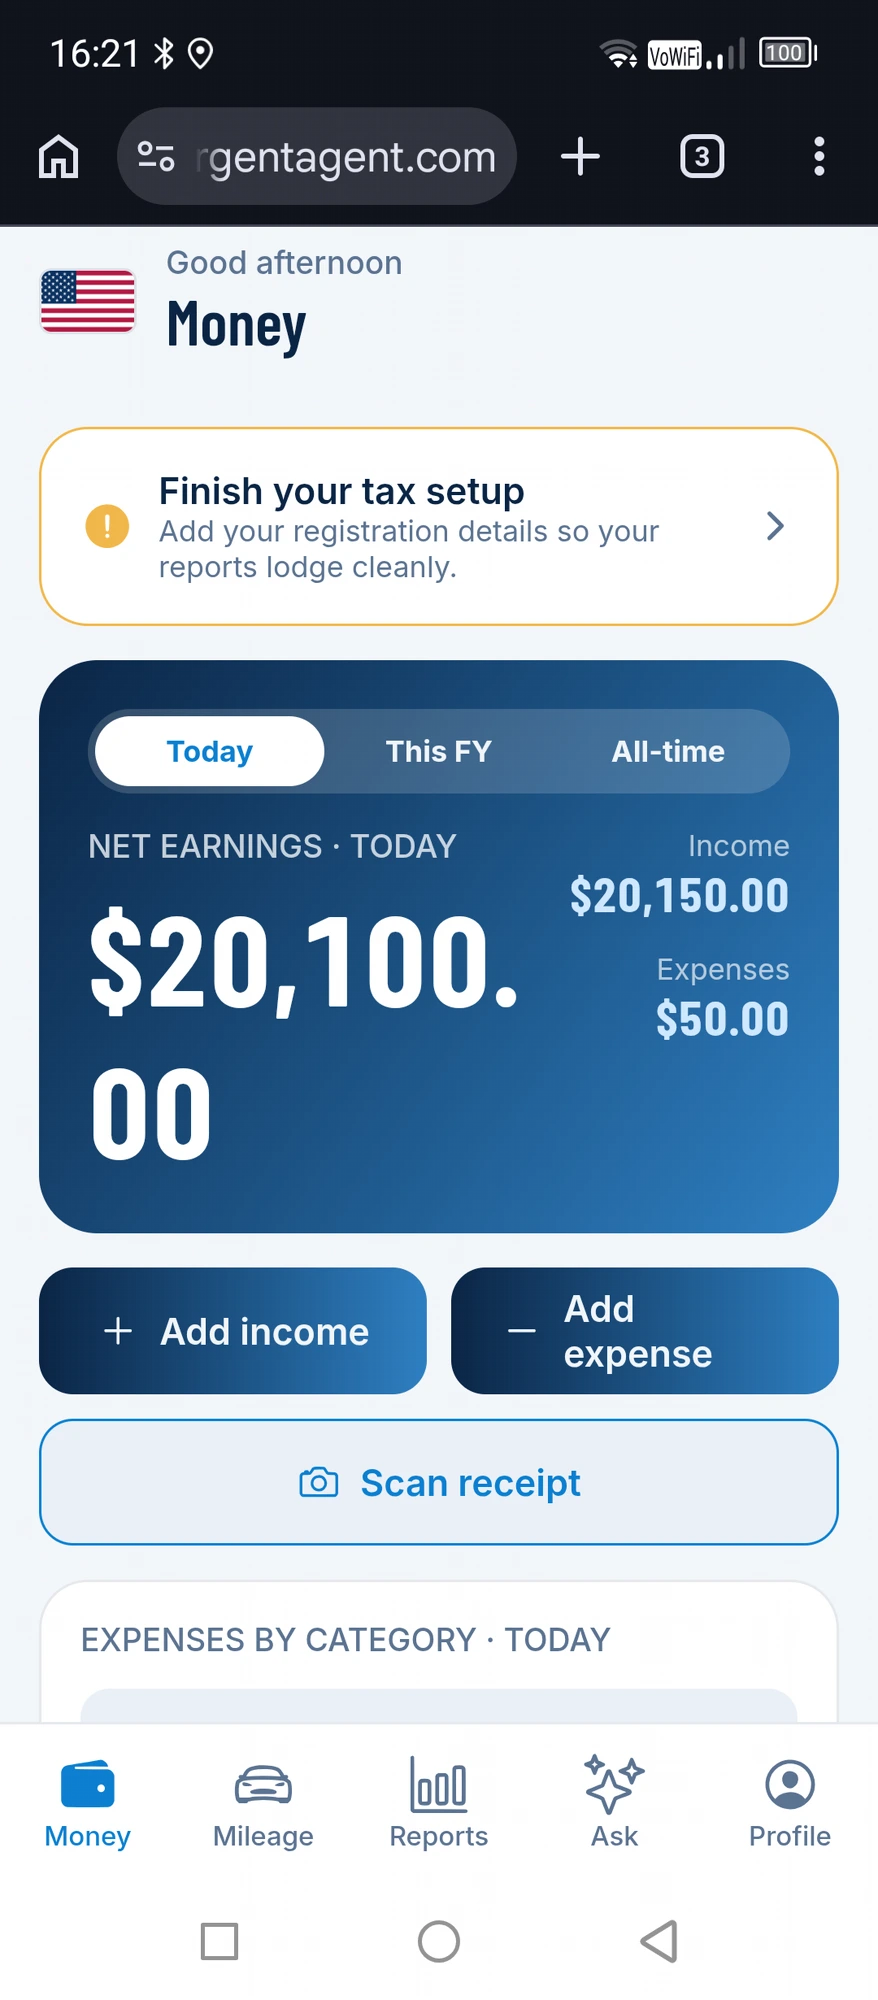
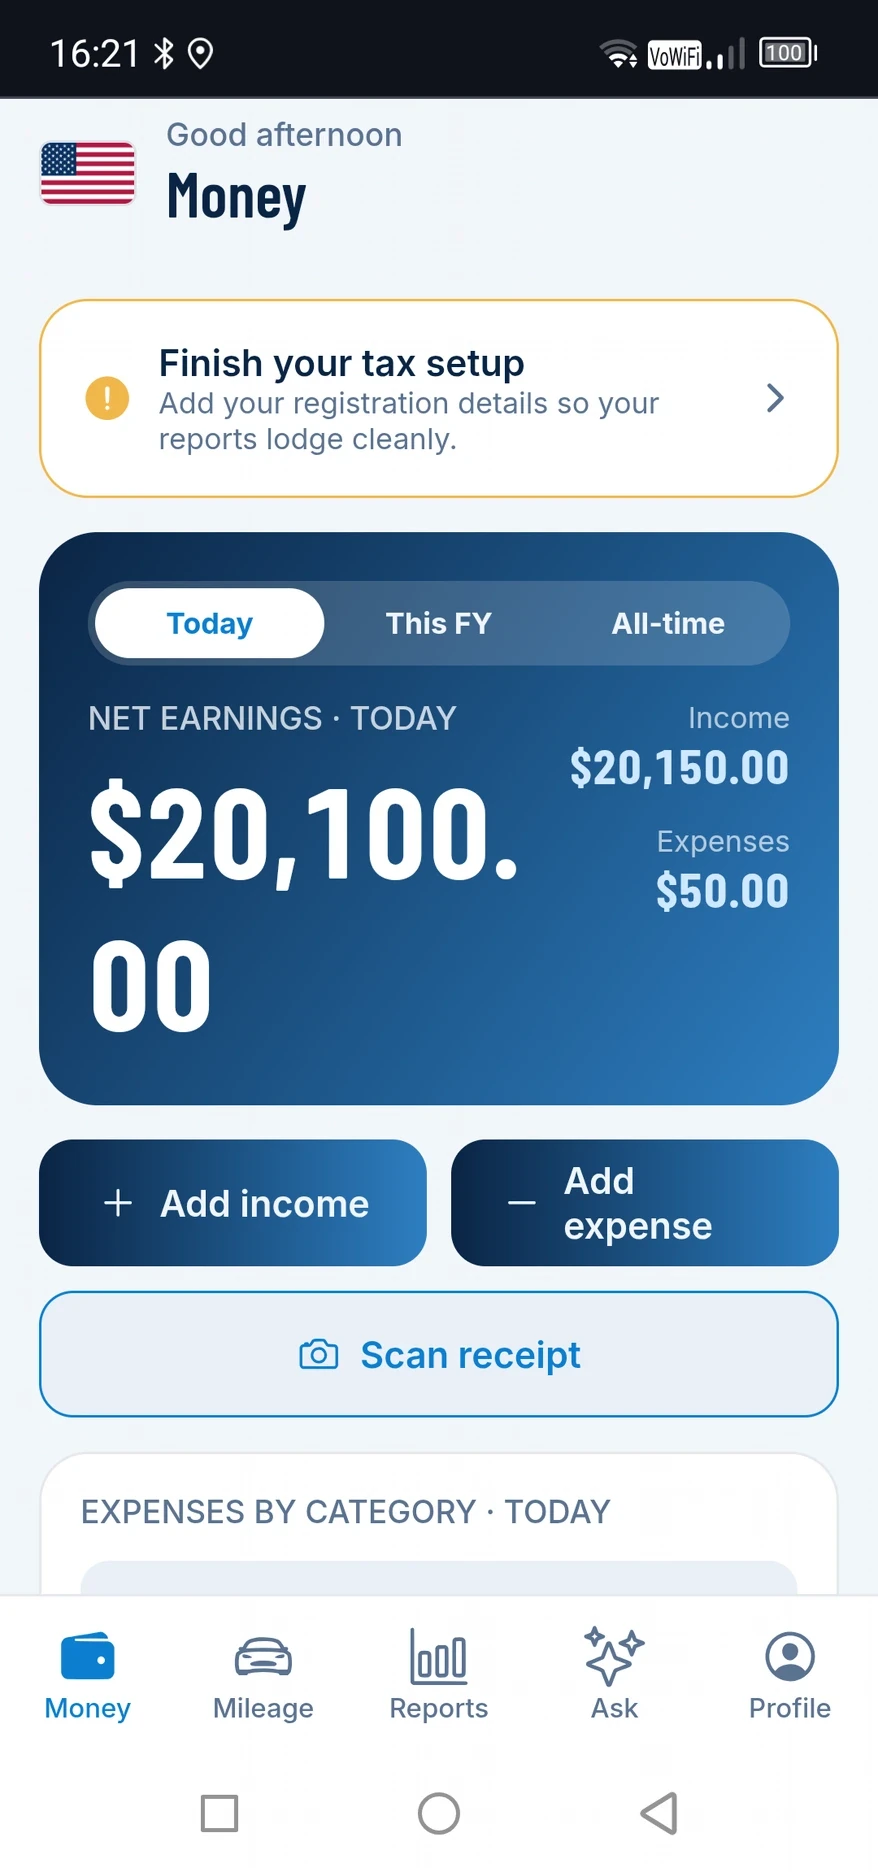
Remove Emergent branding from the repo and marketing screenshots.
Drop the unused Emergent promo image, crop the preview host out of the website phone shots, and clear the brand name from docs, comments, and old test notes. Product name, package id, slug, and bundle id are unchanged.

diff --git a/frontend/constants/testIds/auth.js b/frontend/constants/testIds/auth.js
@@ -13,8 +13,7 @@
 //     (or `<feature>-<element>-<qualifier>` when an element repeats). Examples:
 //     'login-submit-button', 'cart-quantity-input', 'product-card-image'.
 //
-// Why kebab-case values: required by qabot's CSS-attribute-style selector
-// matcher and the lint rule `emergent(kebab-case-testid-prop)`.
+// Why kebab-case values: test selectors match these strings as attribute values.
 
 export const LOGIN = {
 	emailInput: 'login-email-input',

diff --git a/frontend/constants/testIds/index.js b/frontend/constants/testIds/index.js
@@ -1,5 +1,5 @@
 // constants/testIds/ — central registry of testID values used by the
-// end-to-end testing agent (qabot) to locate and interact with UI elements
+// end-to-end tests to locate and interact with UI elements
 // during automated tests. UI without testIDs cannot be automatically verified.
 //
 // Structure: each feature lives in its own file (auth.js, cart.js, ...) and

diff --git a/scripts/migrate_mongo_to_supabase.py b/scripts/migrate_mongo_to_supabase.py
@@ -6,7 +6,7 @@ supabase/migrations/0001_init.sql, while the old backend is in read-only /
 maintenance mode:
 
     pip install -r scripts/requirements.txt
-    export MONGO_URL=... DB_NAME=...                # old Emergent Mongo
+    export MONGO_URL=... DB_NAME=...                # previous Mongo database
     export SUPABASE_URL=https://<ref>.supabase.co
     export SUPABASE_SERVICE_ROLE_KEY=...            # service role (bypasses RLS)
     python scripts/migrate_mongo_to_supabase.py --dry-run   # counts only

diff --git a/backend/tests/test_gigtax_api.py b/backend/tests/test_gigtax_api.py
@@ -320,7 +320,7 @@ class TestExport:
 
 
 # ---------------------------------------------------------------------------
-# Receipt scanning (OpenAI gpt-4o via Emergent LLM)
+# Receipt scanning (vision model)
 # ---------------------------------------------------------------------------
 def _real_receipt_png_b64() -> str:
     """Render a synthetic receipt PNG with real edges/text using Pillow."""

diff --git a/backend/tests/test_recent_features.py b/backend/tests/test_recent_features.py
@@ -4,7 +4,7 @@
 - Money overview with recurring rental (money_now.recurring_rent)
 - Fuel receipt litres persistence
 - Vehicles CRUD + active vehicle switching
-- Ask endpoint (Claude via Emergent LLM)
+- Ask endpoint (Claude)
 """
 import uuid
 from datetime import date, timedelta

diff --git a/memory/PRD.md b/memory/PRD.md
@@ -6,7 +6,7 @@ GigTax is a mobile tax & expense tracker for gig-economy drivers (rideshare + de
 ## Architecture
 - **Backend:** FastAPI + MongoDB. Authoritative AU tax logic lives server-side (`backend/tax.py`) so figures are independently testable. No auth in milestone 1 — a client-generated `profile_id` (local storage) scopes all data.
 - **Frontend:** Expo Router (file-based), 5 bottom tabs + modal routes. Theme (dark/light) with locked palette; Barlow Condensed (variable-free static) for display numerals, Inter (variable) for body; tabular-nums on all money.
-- **Integrations:** OpenAI gpt-4o vision via Emergent Universal LLM key for receipt scanning (`POST /api/receipts/scan`).
+- **Integrations:** OpenAI gpt-4o vision via a hosted LLM key for receipt scanning (`POST /api/receipts/scan`).
 
 ## User personas
 - Full-time rideshare driver (passengers → GST-registered from $1, needs BAS figures).
@@ -46,8 +46,8 @@ GigTax is a mobile tax & expense tracker for gig-economy drivers (rideshare + de
 - **Money hero redesign (DONE, June 2026):** Removed the This-FY/All-time period toggle — Money is now **Today only**. Net total is a full-width auto-shrinking figure on top (no overflow), with Income & Expenses stacked below a divider (Reports-style), plus the weekly-goal bar.
 - **Driving Insights screen (DONE, June 2026):** New `/api/insights` endpoint + `taxlib.insights()` returns an 8-week weekly recap (income, expenses, profit, online hours, $/hr) and a best-day-to-drive breakdown (income & $/hr per weekday over the last 12 weeks, with `best_earning_day` / `best_hourly_day`). New full-screen `app/insights.tsx` (reached from a "Driving insights" card on the Money tab): trophy headline ("Saturdays pay best"), weekly earnings bars with hours, and horizontal per-weekday bars (uses $/hr when hours are logged, else earnings). Tests: `test_insights.py` (74/74 pytest pass). Documented conceptually alongside Online hours.
 - **Online Hours logging (DONE, June 2026):** Drivers log manual online hours per shift so earnings-per-hour reflects real online time (incl. waiting), not just driving. Backend: new `shifts` collection + CRUD `GET/POST/PUT/DELETE /api/shifts` (`Shift` model: id, profile_id, date, hours, platform?, vehicle_id?, note?). `/api/performance` now prefers logged online hours over trip driving minutes when shifts exist in a week, and returns `hours_source: "online"|"driving"`. Frontend: `entry.tsx` gained a `shift` kind (Hours + Platform + Date + Note); Money tab has an **Online hours** card (period-aware total, `$/hr online`, per-shift list tap-to-edit/delete, "Log hours" button). Tests: `test_shifts.py` + new perf cases (72/72 pytest pass). Documented in User Guide.
-- **Google login re-enabled (DONE, June 2026):** The Emergent-managed Google sign-in gate was restored in `_layout.tsx` (LoginScreen shown when `user` is null). `auth.tsx` hardened for native (module-scope `maybeCompleteAuthSession`, one-shot session_id guard, cold-start `getInitialURL` + `url` listener). Backend `/auth/*` endpoints unchanged. NOTE: preview URL now requires sign-in (previously bypassed for frictionless sharing).
-- **AI Tax Assistant "Ask GigTax" (DONE):** New `Ask` tab — grounded Q&A chat for gig drivers. Backend `POST /api/ask` uses Claude Sonnet 4.6 (Emergent LLM key) with a system prompt locked to a **verified knowledge base** (`backend/tax_kb.py`, distilled from official ATO & IRS gig-driver deduction rules). No web search; answers ONLY from the KB, cites rule/year, refuses out-of-scope ("not in my verified sources — see a registered tax agent"), auto-tailors to country. Frontend `app/(tabs)/ask.tsx` chat UI with suggestions, disclaimer, light multi-turn. Verified live. Documented in User Guide.
+- **Google login re-enabled (DONE, June 2026):** The hosted Google sign-in gate was restored in `_layout.tsx` (LoginScreen shown when `user` is null). `auth.tsx` hardened for native (module-scope `maybeCompleteAuthSession`, one-shot session_id guard, cold-start `getInitialURL` + `url` listener). Backend `/auth/*` endpoints unchanged. NOTE: preview URL now requires sign-in (previously bypassed for frictionless sharing).
+- **AI Tax Assistant "Ask GigTax" (DONE):** New `Ask` tab — grounded Q&A chat for gig drivers. Backend `POST /api/ask` uses Claude Sonnet 4.6 (a hosted LLM key) with a system prompt locked to a **verified knowledge base** (`backend/tax_kb.py`, distilled from official ATO & IRS gig-driver deduction rules). No web search; answers ONLY from the KB, cites rule/year, refuses out-of-scope ("not in my verified sources — see a registered tax agent"), auto-tailors to country. Frontend `app/(tabs)/ask.tsx` chat UI with suggestions, disclaimer, light multi-turn. Verified live. Documented in User Guide.
 - **Tax setup country-aware (DONE):** AU shows GST registration + ABN/TFN; US hides GST fields, shows EIN/SSN + "Estimated tax frequency" (1040-ES note).
 - **Method comparison moved to Reports (DONE):** The "Which method is better?" vehicle-deduction comparison card was moved from the **Mileage** tab to the **Reports** tab (works for both AU logbook-vs-cents/km and US actual-vs-standard-mileage, FY-based via `api.taxMileage`). The old US-only "Car expense method" card in Reports was deleted (redundant). Reports now fetches report + tax-mileage in parallel.
 - **Tab de-duplication (DONE):** Removed duplicate modules so each lives in one place. **Home** no longer shows the "Set aside for taxes" jar or the "Tax Mileage" estimate card (both already in **Reports**). **Vehicle management moved entirely to Settings** — "Set up your vehicle" card and "Add car" link removed from Mileage (switcher chips + read-only odometer card remain). **Settings** has a proper **Vehicles** list (add / edit / set-active via `/vehicle`).
@@ -60,7 +60,7 @@ GigTax is a mobile tax & expense tracker for gig-economy drivers (rideshare + de
 - **Calendar date picker (DONE, tested iteration_6):** All manual date-typing removed.
 
 ## Notes
-- **New brand logo / app icon (Jun 2026):** Generated a new GigTax logo (gpt-image-1 via Emergent key) — a "Coin + Road" mark ($ coin with a road across it) recoloured to the app's accent blue. Applied across `frontend/assets/images/`: `icon.png` (opaque navy square + blue mark), `adaptive-icon.png` (Android foreground, transparent), `favicon.png`, `splash-image.png` (navy bg + mark), plus light/dark **wordmarks** — `logo-dark.png` (light text, for dark bg) and new `logo-wordmark-light.png` (navy text, for light bg). `LoginScreen.tsx` now switches the wordmark by `colors.mode`. `logo-light.png` is a small square badge used in the Profile → Subscription row. Source variants + Pillow compose scripts kept in `frontend/assets/logo_options/`. Verified: login screen renders the wordmark correctly on the dark theme. Icon/splash/favicon fully appear after a new build. Added public in-app legal pages required for Google OAuth consent-screen publishing + App/Play store review. New routes `app/privacy.tsx` and `app/terms.tsx` render via a shared `src/legal.tsx` `LegalDoc` component (scrollable, close button, numbered sections). Content tailored to GigTax — Google sign-in data, background location/mileage, receipt AI scanning (OpenAI), Google Drive `drive.file` limited-use disclosure, subscriptions, delete-account, contact `globalappsai@gmail.com` (operated by "Global Apps AI"). Linked from Profile → Help (`set-privacy`/`set-terms`). Exempted `/privacy` and `/terms` from the auth gate in `_layout.tsx` (via `usePathname`) so they stay reachable without login. Reachable at `<deploy-url>/privacy` and `/terms`; for Google's "Authorised domain" the user must serve these on their own verified domain. Root-caused the "app running >1h in background loses the active manual GPS drive" bug (Blackview & other aggressive Android battery managers). The manual "GPS shift" tracker was refactored from an in-memory foreground `watchPositionAsync` (whose running distance lived only in React state → wiped on OS process-death) to a **persistent background foreground-service task**. `src/autotrack.ts` now defines `MANUAL_TASK` (`startManualDrive`/`getManualLive`/`stopManualDrive`) that runs `Location.startLocationUpdatesAsync` with a `foregroundService` notification and **auto-saves the running distance to storage (`LIVE_KEY`) on every location batch**, so the drive is recovered even if Android kills the app. `app/(tabs)/trips.tsx` rewired: `startShift`→`startManualDrive`, a 1.5s poll reads the auto-saved distance from storage (updates the live counter with the screen off), a mount-time `useEffect` **recovers an in-progress drive** via `getManualLive()` when the app is relaunched mid-drive, and `stopShift`→`stopManualDrive` (returns final distance + startTs). `startManualDrive` pauses background auto-detection (no double-count) and `stopManualDrive` resumes it. Added a one-time **battery-optimization whitelist prompt** (Alert → `expo-intent-launcher` `IGNORE_BATTERY_OPTIMIZATION_SETTINGS`) shown on first GPS shift, plus a persistent **"Battery & background tracking"** row (Android-only, testID `battery-optimization`) in Profile → Automatic tracking. Verified: bundle compiles, preview-safe (web shows "GPS tracking needs a device build"), backend 112/112 + iter17 regression pass. NOTE: actual background survival is **native-only** — requires a new APK/dev build to validate.
+- **New brand logo / app icon (Jun 2026):** Generated a new GigTax logo (gpt-image-1) — a "Coin + Road" mark ($ coin with a road across it) recoloured to the app's accent blue. Applied across `frontend/assets/images/`: `icon.png` (opaque navy square + blue mark), `adaptive-icon.png` (Android foreground, transparent), `favicon.png`, `splash-image.png` (navy bg + mark), plus light/dark **wordmarks** — `logo-dark.png` (light text, for dark bg) and new `logo-wordmark-light.png` (navy text, for light bg). `LoginScreen.tsx` now switches the wordmark by `colors.mode`. `logo-light.png` is a small square badge used in the Profile → Subscription row. Source variants + Pillow compose scripts kept in `frontend/assets/logo_options/`. Verified: login screen renders the wordmark correctly on the dark theme. Icon/splash/favicon fully appear after a new build. Added public in-app legal pages required for Google OAuth consent-screen publishing + App/Play store review. New routes `app/privacy.tsx` and `app/terms.tsx` render via a shared `src/legal.tsx` `LegalDoc` component (scrollable, close button, numbered sections). Content tailored to GigTax — Google sign-in data, background location/mileage, receipt AI scanning (OpenAI), Google Drive `drive.file` limited-use disclosure, subscriptions, delete-account, contact `globalappsai@gmail.com` (operated by "Global Apps AI"). Linked from Profile → Help (`set-privacy`/`set-terms`). Exempted `/privacy` and `/terms` from the auth gate in `_layout.tsx` (via `usePathname`) so they stay reachable without login. Reachable at `<deploy-url>/privacy` and `/terms`; for Google's "Authorised domain" the user must serve these on their own verified domain. Root-caused the "app running >1h in background loses the active manual GPS drive" bug (Blackview & other aggressive Android battery managers). The manual "GPS shift" tracker was refactored from an in-memory foreground `watchPositionAsync` (whose running distance lived only in React state → wiped on OS process-death) to a **persistent background foreground-service task**. `src/autotrack.ts` now defines `MANUAL_TASK` (`startManualDrive`/`getManualLive`/`stopManualDrive`) that runs `Location.startLocationUpdatesAsync` with a `foregroundService` notification and **auto-saves the running distance to storage (`LIVE_KEY`) on every location batch**, so the drive is recovered even if Android kills the app. `app/(tabs)/trips.tsx` rewired: `startShift`→`startManualDrive`, a 1.5s poll reads the auto-saved distance from storage (updates the live counter with the screen off), a mount-time `useEffect` **recovers an in-progress drive** via `getManualLive()` when the app is relaunched mid-drive, and `stopShift`→`stopManualDrive` (returns final distance + startTs). `startManualDrive` pauses background auto-detection (no double-count) and `stopManualDrive` resumes it. Added a one-time **battery-optimization whitelist prompt** (Alert → `expo-intent-launcher` `IGNORE_BATTERY_OPTIMIZATION_SETTINGS`) shown on first GPS shift, plus a persistent **"Battery & background tracking"** row (Android-only, testID `battery-optimization`) in Profile → Automatic tracking. Verified: bundle compiles, preview-safe (web shows "GPS tracking needs a device build"), backend 112/112 + iter17 regression pass. NOTE: actual background survival is **native-only** — requires a new APK/dev build to validate.
 - **Auth + Paywall gates re-enabled (Jun 2026):** `AUTH_ENABLED=true` (Google login gate in `app/_layout.tsx`), `SUB_GATE_ENABLED=true` (RevenueCat paywall gate), `RC_ENABLED=true` (`src/subscription.tsx`). Paywall still self-bypasses on web/Expo Go (RevenueCat only runs on a native build with keys). Needs real production `appl_`/`goog_` RevenueCat keys in `frontend/.env` before store submission (test-store key currently present for dev builds).
 - **Operation manual refreshed + first-run guide banner (Jun 2026):** Updated the User Guide (`app/manual.tsx`) to match current frontend: Money dashboard now describes the tap-to-open single-open accordion cards + always-visible Money Now headline; best/worst/best-platform/best-times now pointed to Driving insights; added receipt "Remove photo" step; added AU rideshare full-fare-before-commission guidance (US-hidden); added GPS Calibration % + post-drive odometer auto-calibrate steps to the GPS/odometer and Vehicles sections; new "Backups, account & your data" section (Drive backup, data-safe-on-background note, Delete account path). Added a **dismissible first-run banner** on the Money tab (`home.tsx`, testID `home-guide-banner`/`home-guide-dismiss`) that opens `/manual`; shown once, persisted via `storage` key `gigtax.guide_seen`. Verified: banner shows for new users and opens the guide.
 - **Auto-calibrate from odometer (Jun 2026):** After ending a GPS drive, the classify prompt (`app/(tabs)/trips.tsx`) now has an optional **"On your odometer?"** input (testID `gps-odo`). If the driver enters the odometer distance for that drive: (1) the trip is logged at the exact odometer value (not the GPS estimate), and (2) the active vehicle's `gps_calibration_pct` is auto-set = `clamp(round(odo / rawGpsKm * 100, 1), 50, 150)` via `api.updateVehicle` + `reloadVehicles`, so future drives on that car self-correct. `stopShift` now stashes the raw (uncalibrated) GPS distance in `pendingRawKm` for the ratio. Leaving the field blank keeps the previous calibrated-GPS behaviour. NOTE: post-drive prompt only reachable with real GPS movement → native-build testable only.

diff --git a/test_result.md b/test_result.md
@@ -127,7 +127,7 @@
 
 ## Final pre-ship check — AI Assistant + User Guide consistency (added by main agent)
 - Google login REMOVED — app opens directly (local profile, no auth). No credentials needed.
-- NEW: AI Tax Assistant "Ask" tab. Backend POST /api/ask {question, country, history} -> Claude Sonnet 4.6 (Emergent LLM key), grounded ONLY in backend/tax_kb.py (ATO for AU, IRS for US). Must: answer claimable/not-claimable Qs from KB, refuse out-of-scope ("not in my verified sources — registered tax agent"), no web search. Frontend app/(tabs)/ask.tsx chat UI (suggestions, disclaimer, send).
+- NEW: AI Tax Assistant "Ask" tab. Backend POST /api/ask {question, country, history} -> Claude Sonnet 4.6 (a hosted LLM key), grounded ONLY in backend/tax_kb.py (ATO for AU, IRS for US). Must: answer claimable/not-claimable Qs from KB, refuse out-of-scope ("not in my verified sources — registered tax agent"), no web search. Frontend app/(tabs)/ask.tsx chat UI (suggestions, disclaimer, send).
 - Bottom tabs now: Home, Mileage, Ledger, Reports, Ask, Profile (Settings renamed to Profile, person icon).
 - User Guide manual (Profile > Help > User guide, route /manual) updated to reflect ALL tabs/features: Ask tab, no-login wording, Home layout (hero + Performance + km/owed at bottom), collapsible History on Mileage & Ledger, ATO/IRS logbook + "which method is better" now in Reports, tax setup country-aware (AU GST/ABN·TFN; US EIN/SSN + estimated-tax freq).
 - Recent UI: Mileage tab GPS/Add-trip controls at top above TODAY counter; History collapsible (tap header). Ledger History collapsible. Reports cards all have accent border; logbook card moved from Mileage to Reports. Home hero income/expenses on right.

diff --git a/docs/MIGRATION.md b/docs/MIGRATION.md
@@ -1,15 +1,15 @@
-# Migrating Drivers Gig Tax off Emergent
+# Migrating Drivers Gig Tax off the previous host
 
-Branch: `migrate-off-emergent` (local). Nothing here has been deployed or run against real data.
+Nothing in this branch has been deployed or run against real data.
 
 ## Architecture after migration
-| Piece | Before (Emergent) | After |
+| Piece | Before (previous host) | After |
 |---|---|---|
 | Database | MongoDB (Motor) | Supabase Postgres (Pro), `supabase/migrations/0001_init.sql` |
 | Data access | Motor | `backend/pgdb.py`: small Motor-compatible adapter on **asyncpg** |
-| API | FastAPI on Emergent k8s | Same FastAPI, routes unchanged, on **Fly.io `syd`** (`fly.toml`, `backend/Dockerfile`) |
-| AI | `emergentintegrations` LlmChat (gpt-4o vision, Claude Sonnet) | Official `anthropic` SDK; both receipt scan (vision) and /api/ask use `claude-sonnet-4-6` |
-| Auth | Emergent session + own Google OAuth + Apple | Own Google OAuth + Apple (unchanged), sessions in Postgres. Emergent `/api/auth/session` removed |
+| API | FastAPI on the previous host's Kubernetes | Same FastAPI, routes unchanged, on **Fly.io `syd`** (`fly.toml`, `backend/Dockerfile`) |
+| AI | Hosted `LlmChat` wrapper (gpt-4o vision, Claude Sonnet) | Official `anthropic` SDK; both receipt scan (vision) and /api/ask use `claude-sonnet-4-6` |
+| Auth | Hosted session + own Google OAuth + Apple | Own Google OAuth + Apple (unchanged), sessions in Postgres. Hosted `/api/auth/session` removed |
 | Marketing site | `/api/site` on backend | Netlify, `netlify.toml`, publish `website/` |
 
 ## Decisions

diff --git a/README.md b/README.md
@@ -1,1 +1,11 @@
-# Here are your Instructions
+# Drivers Gig Tax
+
+Tax, mileage, and expense tracker for rideshare and delivery drivers.
+
+- `frontend/` — Expo app (React Native)
+- `backend/` — FastAPI API
+- `website/` — marketing site
+- `landing/` and `legal_site/` — earlier site copies
+- `supabase/migrations/` — Postgres schema
+
+Deploy notes are in `docs/DEPLOY_CHECKLIST.md`.
